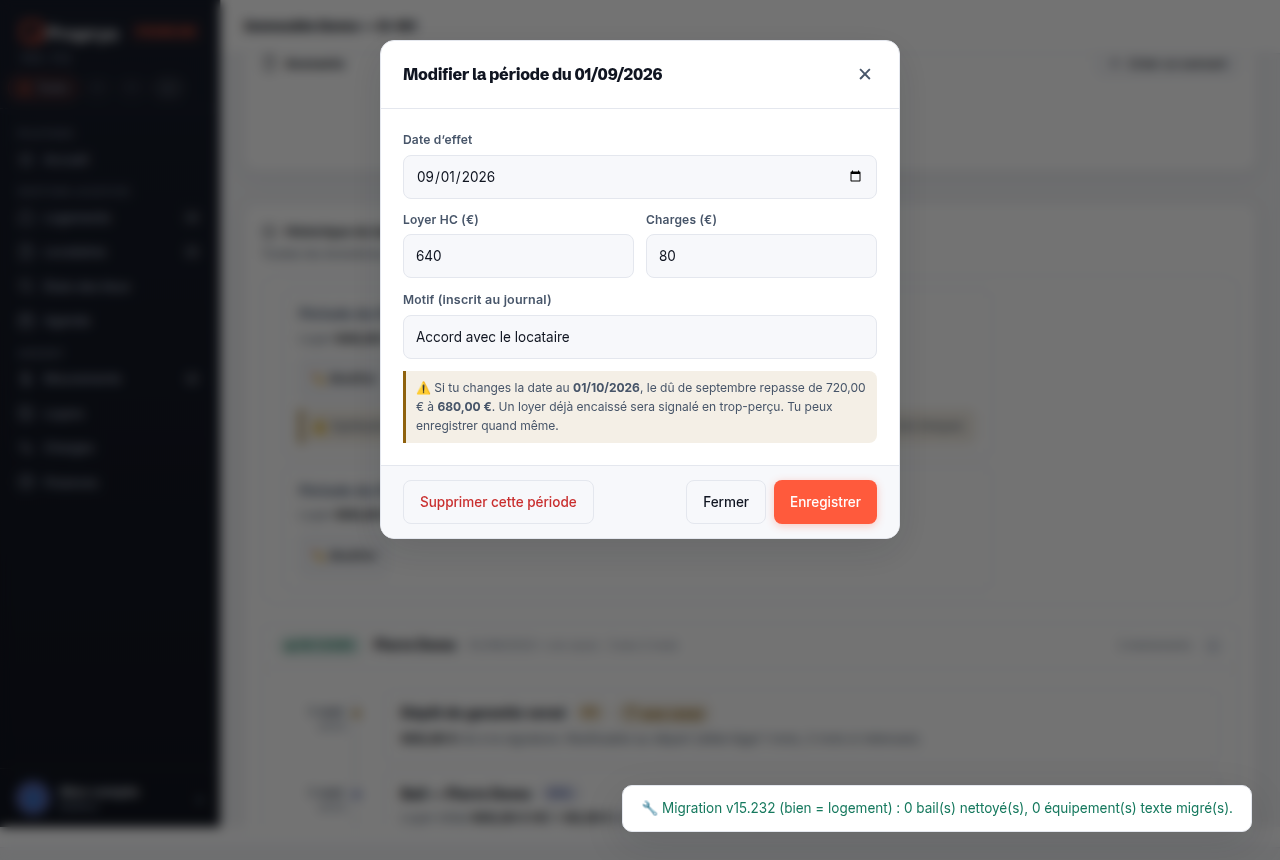
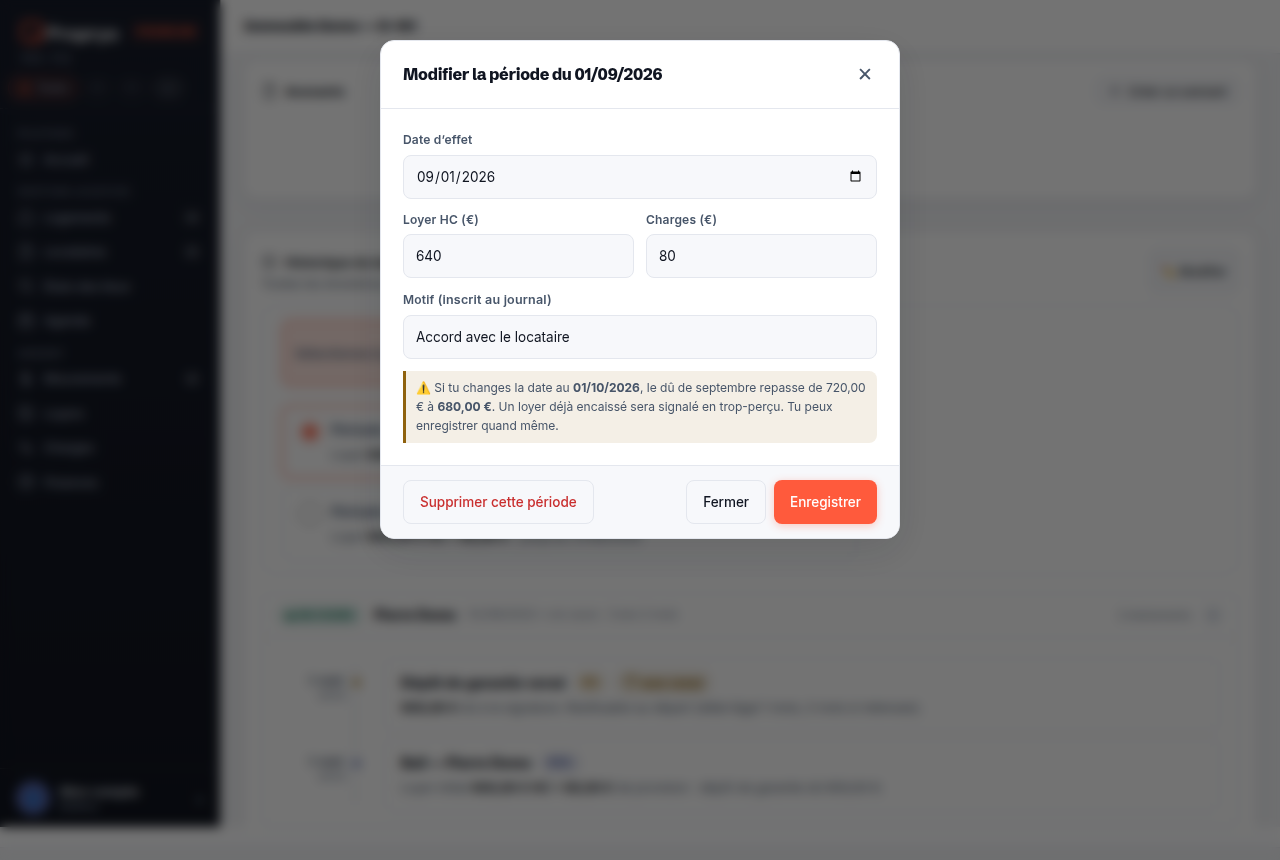
Pilotage : maquette Bail en cours — un bouton Modifier + sélection de la période à modifier
Claude-Session: https://claude.ai/code/session_01TaKKhFh1iMTcfYbiX1p9zo

diff --git a/docs/subjects/RETOURS-2026-10-05.md b/docs/subjects/RETOURS-2026-10-05.md
@@ -240,3 +240,4 @@ Les 20 € (accord suite à la panne électrique) : **aucun moyen** de dire « m
 - 2026-10-05 (décision Didier) : **B4** une simple coche « Dépôt de garantie versé » (oui/non), sans choix multiples ni mouvement bancaire. Champ à ajouter à `CHAMPS_BAIL` (journal du bail signé) ; `_dgStatut` (`js/core/gestion-dg-impayes.js`) lira cette coche. Phase 2 terminée (B1, B3, B4).
 - 2026-10-06 : **phase 3, maquettes faites dans la vraie app** (`mockups/BAIL-EN-COURS/captures/`, 3 formats, clair + sombre, scripts `shoot*.mjs`). Validées par Didier : DG versé (coche dans « Modifier le bail »), bail signé en dehors de Propryo (coche + PJ facultative, date de signature existante), nom d'affichage (fiche + liste), EDL hors Propryo (classé dans Documents du logement, section « États des lieux », PAS via « Nouvel EDL »), signature à distance expirée (Relancer / Signé hors Propryo / Annuler la session). **À valider** : correction de date et annulation d'une modification de bail (`modif-bail-*`). Point ouvert pour la conception Opus : sort d'une signature déjà recueillie sur une session expirée annulée ; verrou, scellement cloud et journal `baux_evenements` d'un bail signé hors Propryo ; recalcul du dû à la correction/annulation d'une modification.
 - 2026-10-06 (retour Didier) : maquette « corriger la date / annuler » REFAITE (`periodes-*`) : le bouton d'en-tête « Corriger une période » DISPARAÎT ; chaque période de l'historique porte un bouton « Modifier » (date d'effet, loyer HC, charges, motif au journal, alerte d'impact non bloquante, « Supprimer cette période » dans la fenêtre). À valider. Question ouverte : comment ajouter une période manquante une fois « Corriger une période » retiré.
+- 2026-10-06 (retour Didier, 2ᵉ) : un SEUL bouton « Modifier » dans l'en-tête de l'historique (à la place de « Corriger une période »), puis on SÉLECTIONNE la période à modifier (puces radio, barre « Sélectionne la période à modifier » + « Modifier la période sélectionnée ») et la fenêtre « Modifier la période » s'ouvre (date d'effet, loyer HC, charges, motif au journal, alerte d'impact non bloquante, « Supprimer cette période »). Maquettes `periodes-historique|selection|modifier-*`. Remplace la version « bouton sur chaque carte ».
